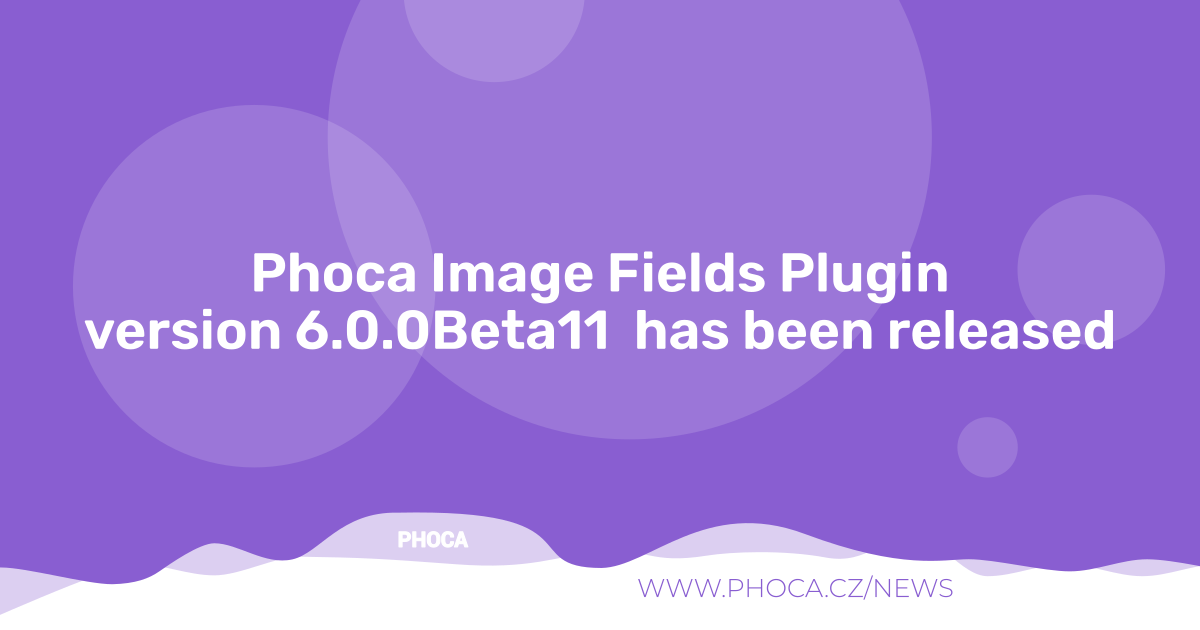
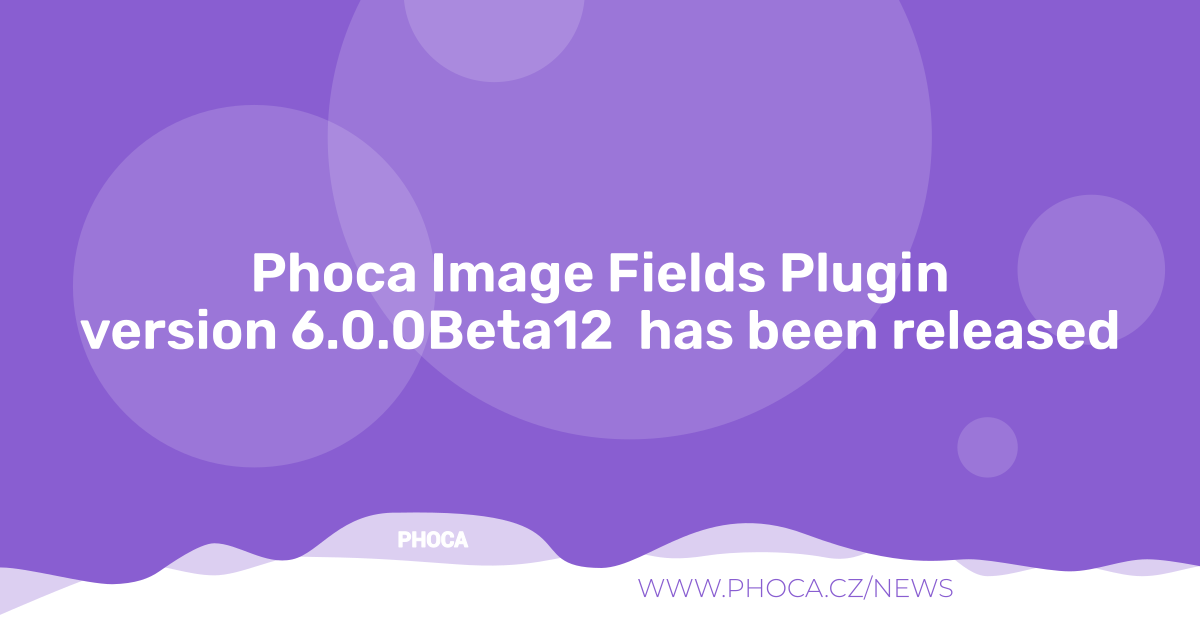
6.0.0Beta12

Changed region(s): [[0.0617, 0.4825, 0.9558, 0.573]]

diff --git a/media/css/frontend.css b/media/css/frontend.css
@@ -44,6 +44,20 @@
     object-fit: cover;
 }
 
+@media (max-width: 767.98px) {
+    .phocaimage-gallery.pi-flex a {
+        flex: 0 0 100%;
+        height: auto;
+    }
+
+    .phocaimage-gallery.pi-flex img {
+        width: 100%;
+        height: auto;
+        min-width: 0;
+        object-fit: contain;
+    }
+}
+
 /* PhotoSwipe Caption */
 .pswp__custom-caption {
     font-size: 16px;
